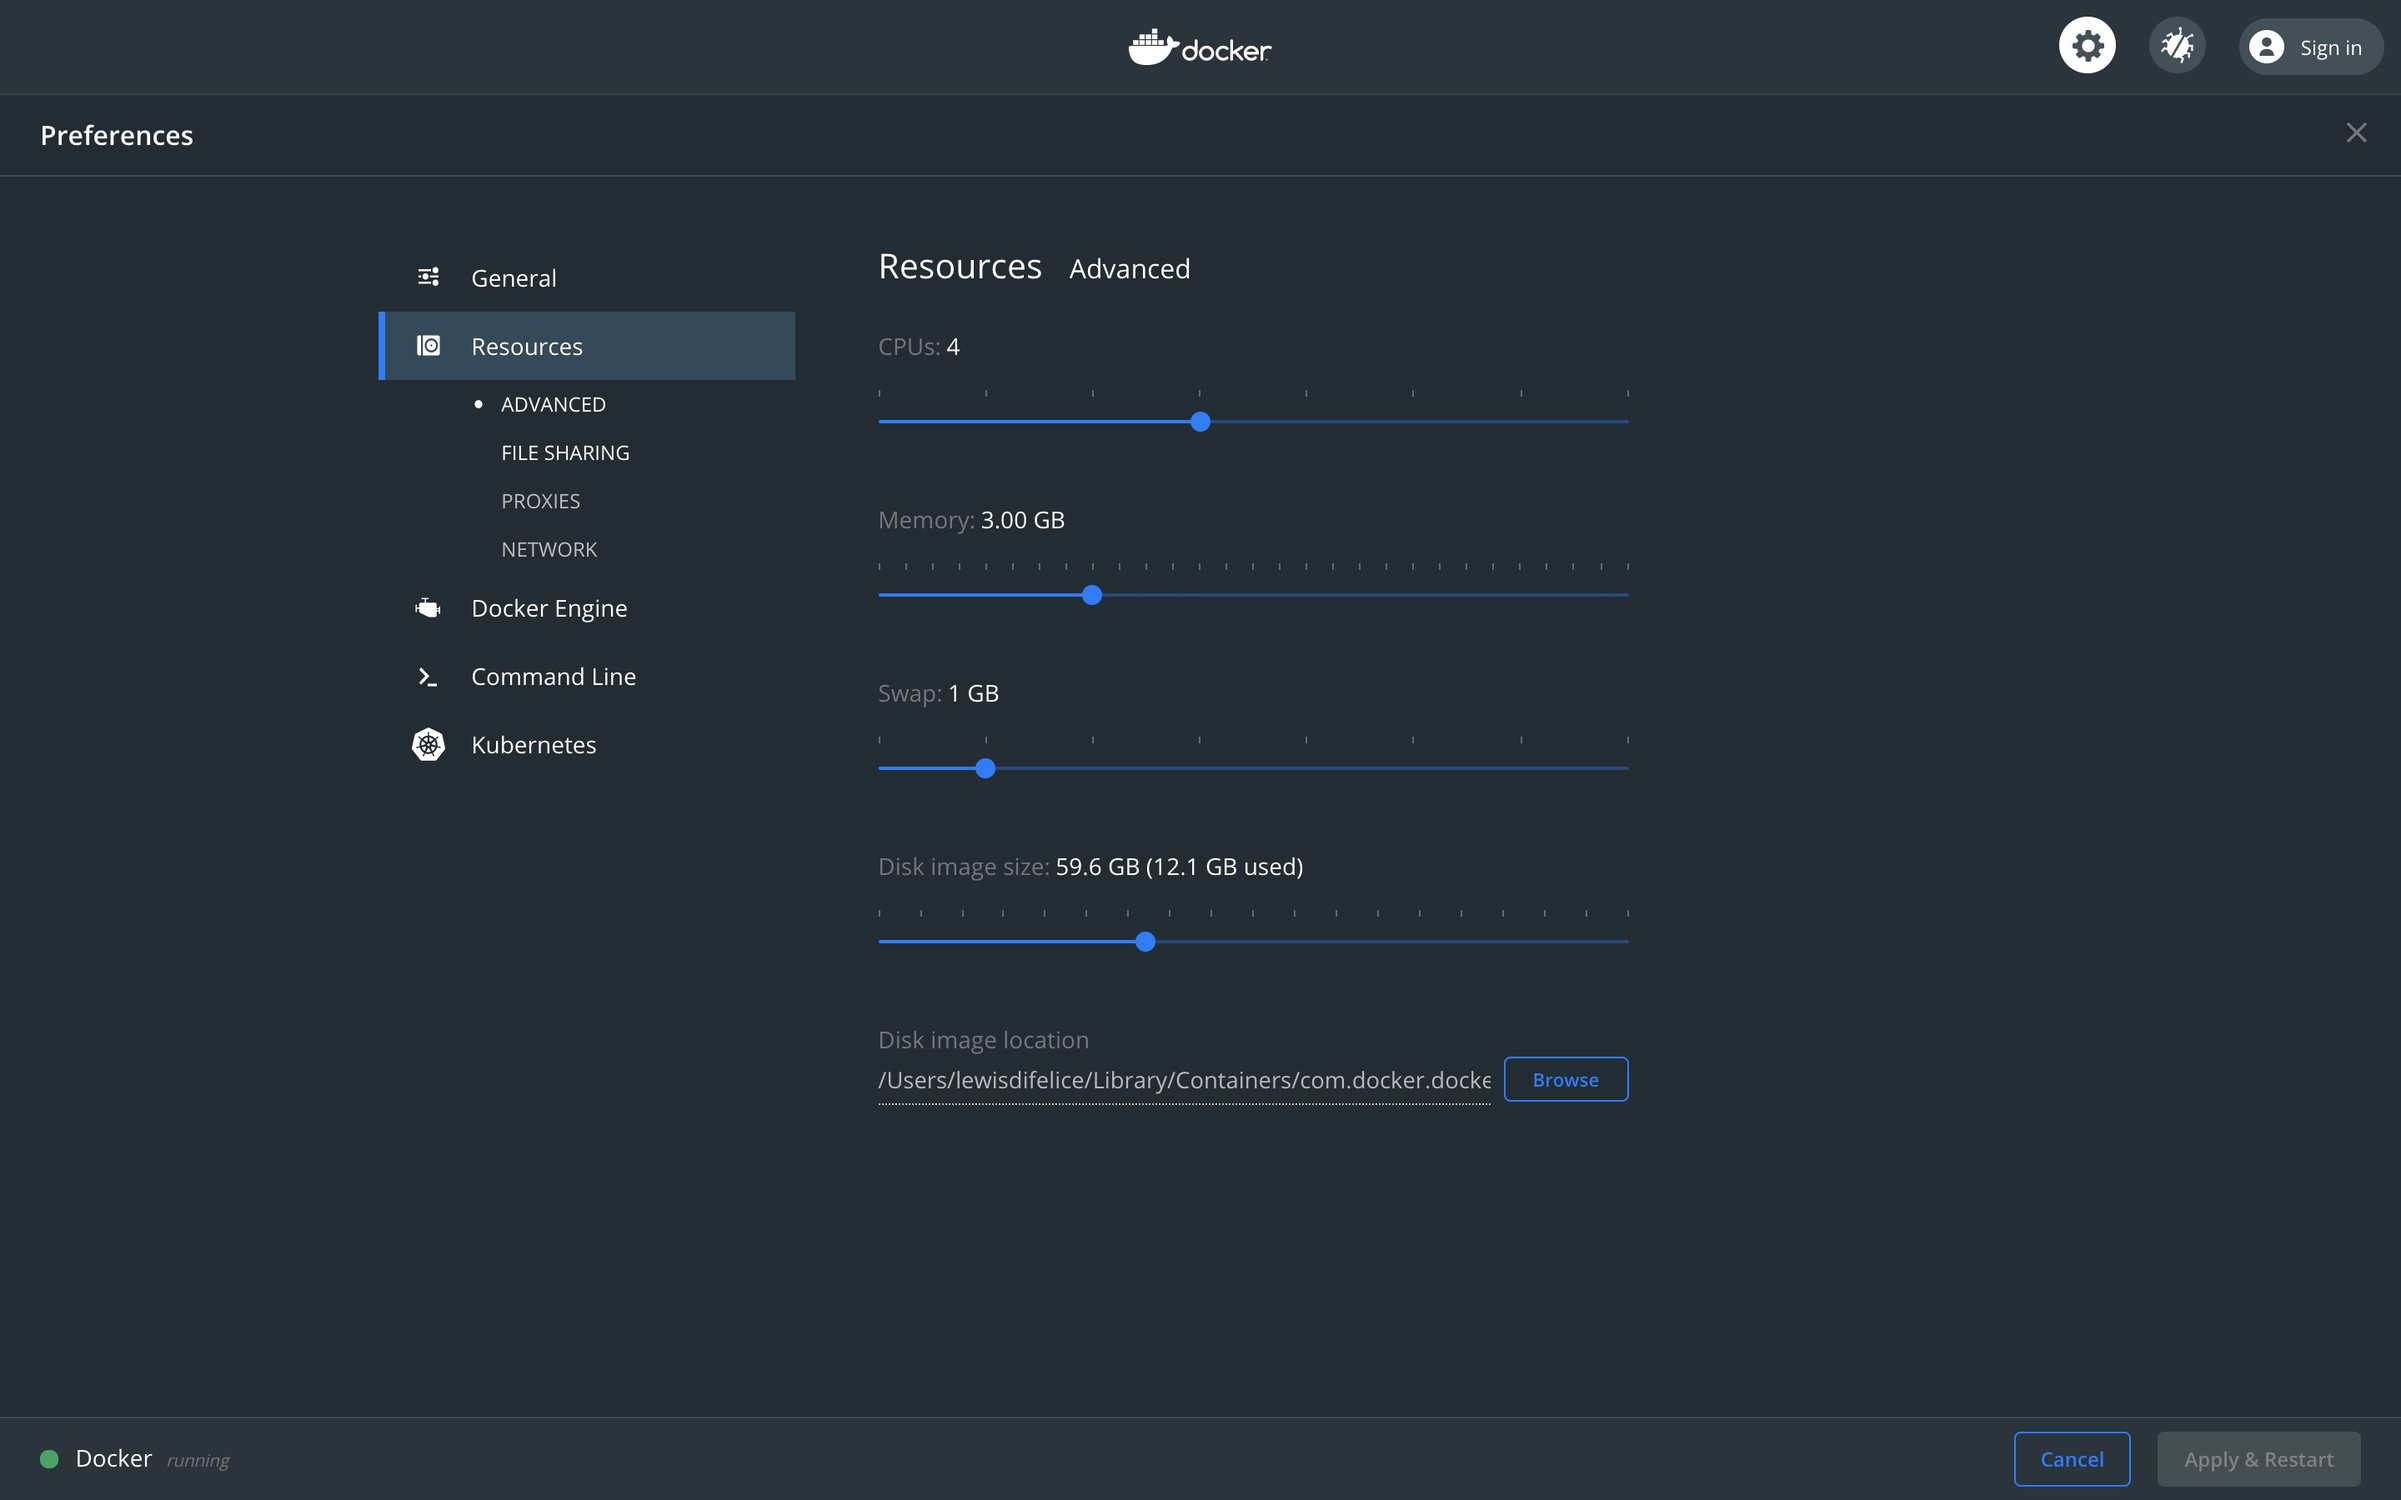
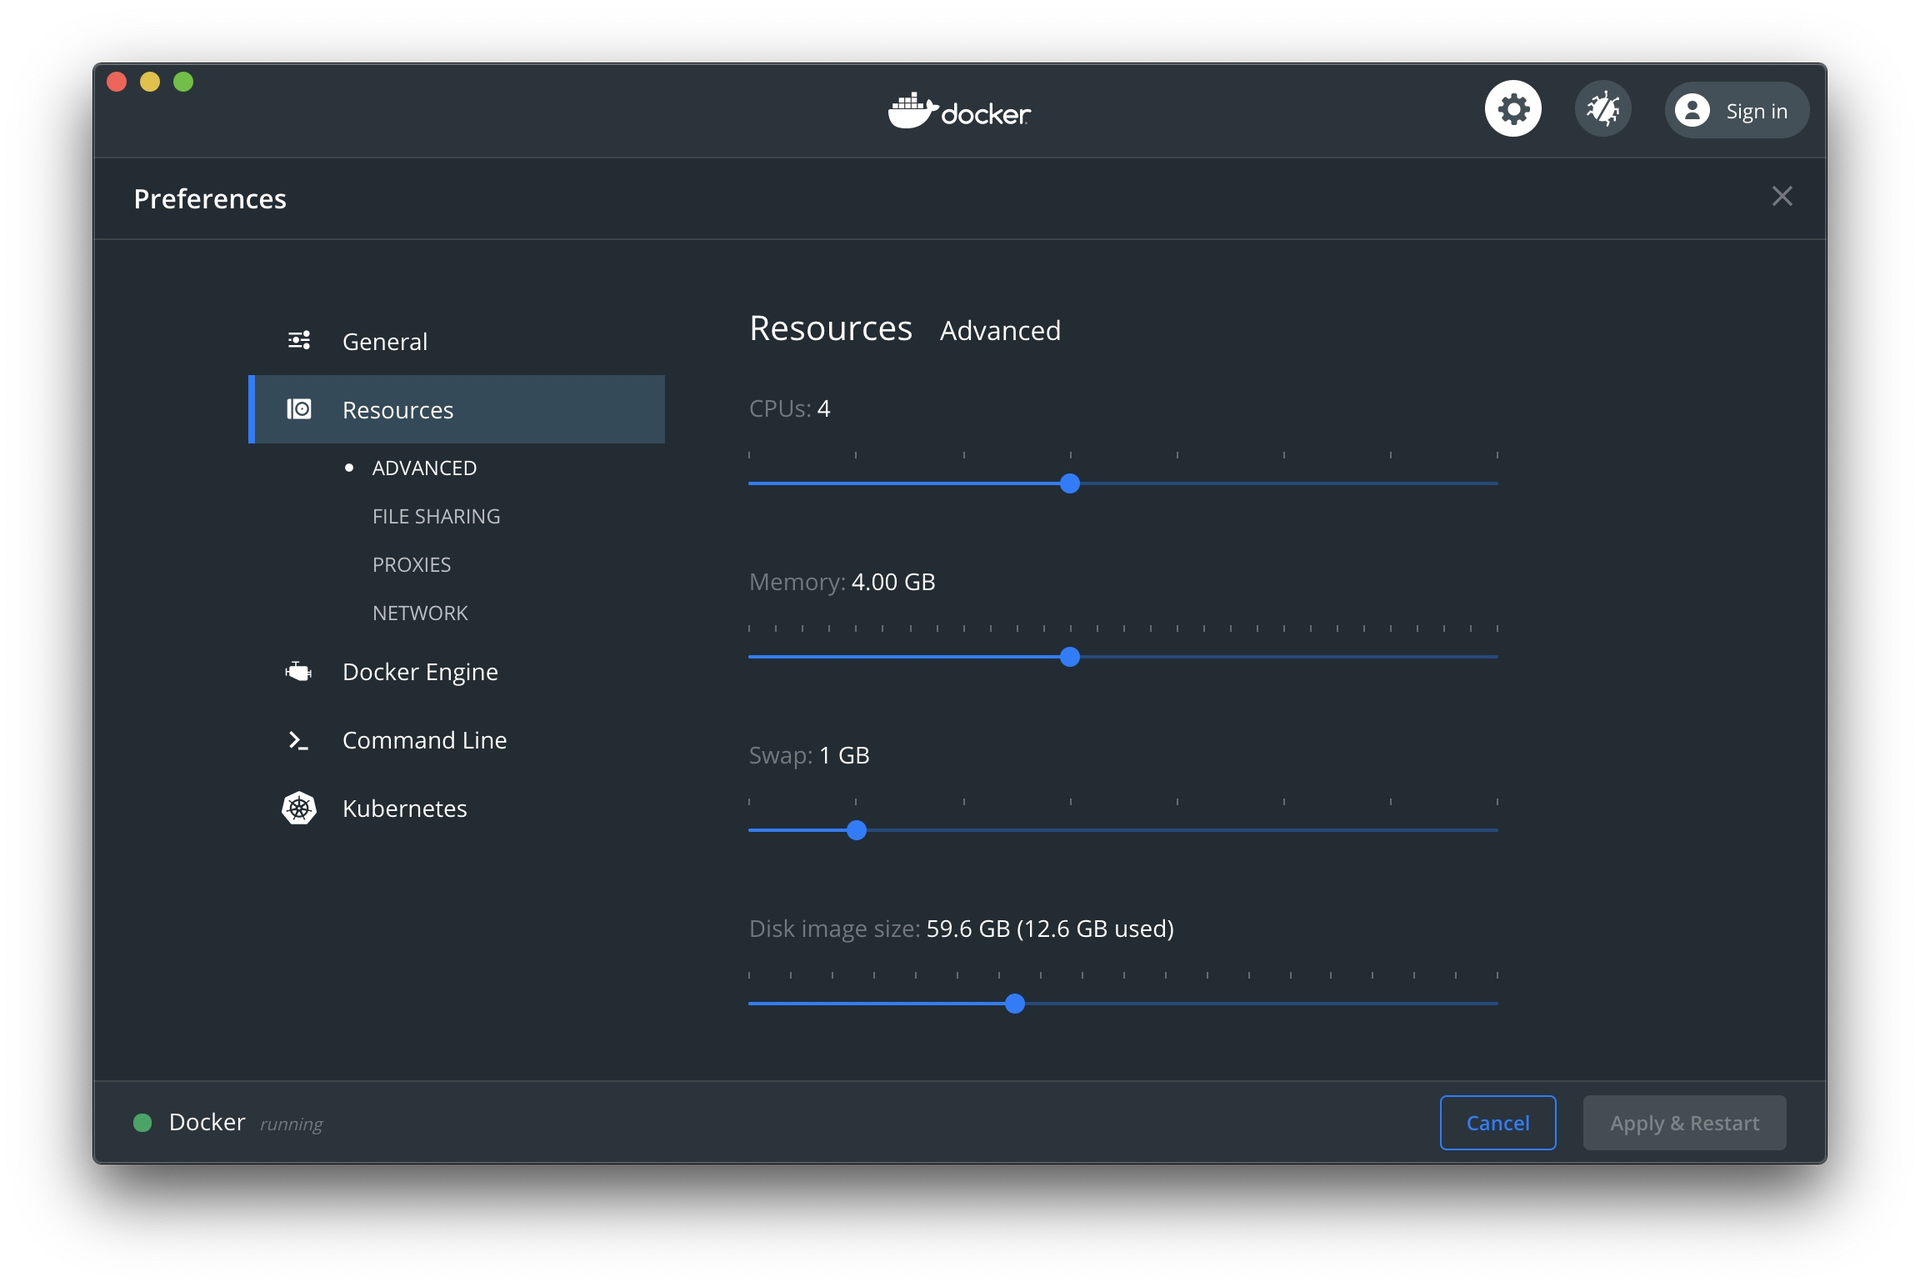
Update README and instructions

diff --git a/COVID19.md b/COVID19.md
@@ -13,7 +13,7 @@ Note: if you are running Docker Desktop, allocate at least 3 GB for memory and 4
 1. Select Preferences
 1. Select Resources
 1. Set CPUs = 4
-1. Set Memory to at least 3GB
+1. Set Memory to at least 4GB
 1. Press the Apply & Restart button to make the changes.
 * Download the kafka connectors 
 * see [ReadMe](./README.md) if you are facing any challenges

diff --git a/CASSANDRA.md b/CASSANDRA.md
@@ -28,7 +28,7 @@ docker exec -it cassandra-kafka-elasticsearch-open-source_connect_1 bash -c   "k
 #### Validate elasticsearch has ingested the data
 * input
 
-	`curl http://127.0.0.1:9200/current-datetime/_search/?size=1000&pretty=1`
+	`curl 'http://127.0.0.1:9200/current-datetime/_search/?size=1000&pretty'`
 
 * validate to ensure you have some json output
 

diff --git a/README.md b/README.md
@@ -15,7 +15,7 @@ Note: if you are running Docker Desktop, allocate at least 3 GB for memory and 4
 1. Select Preferences
 1. Select Resources
 1. Set CPUs = 4
-1. Set Memory to at least 3GB
+1. Set Memory to at least 4GB
 1. Press the Apply & Restart button to make the changes.
 
 ## Set up the environment
